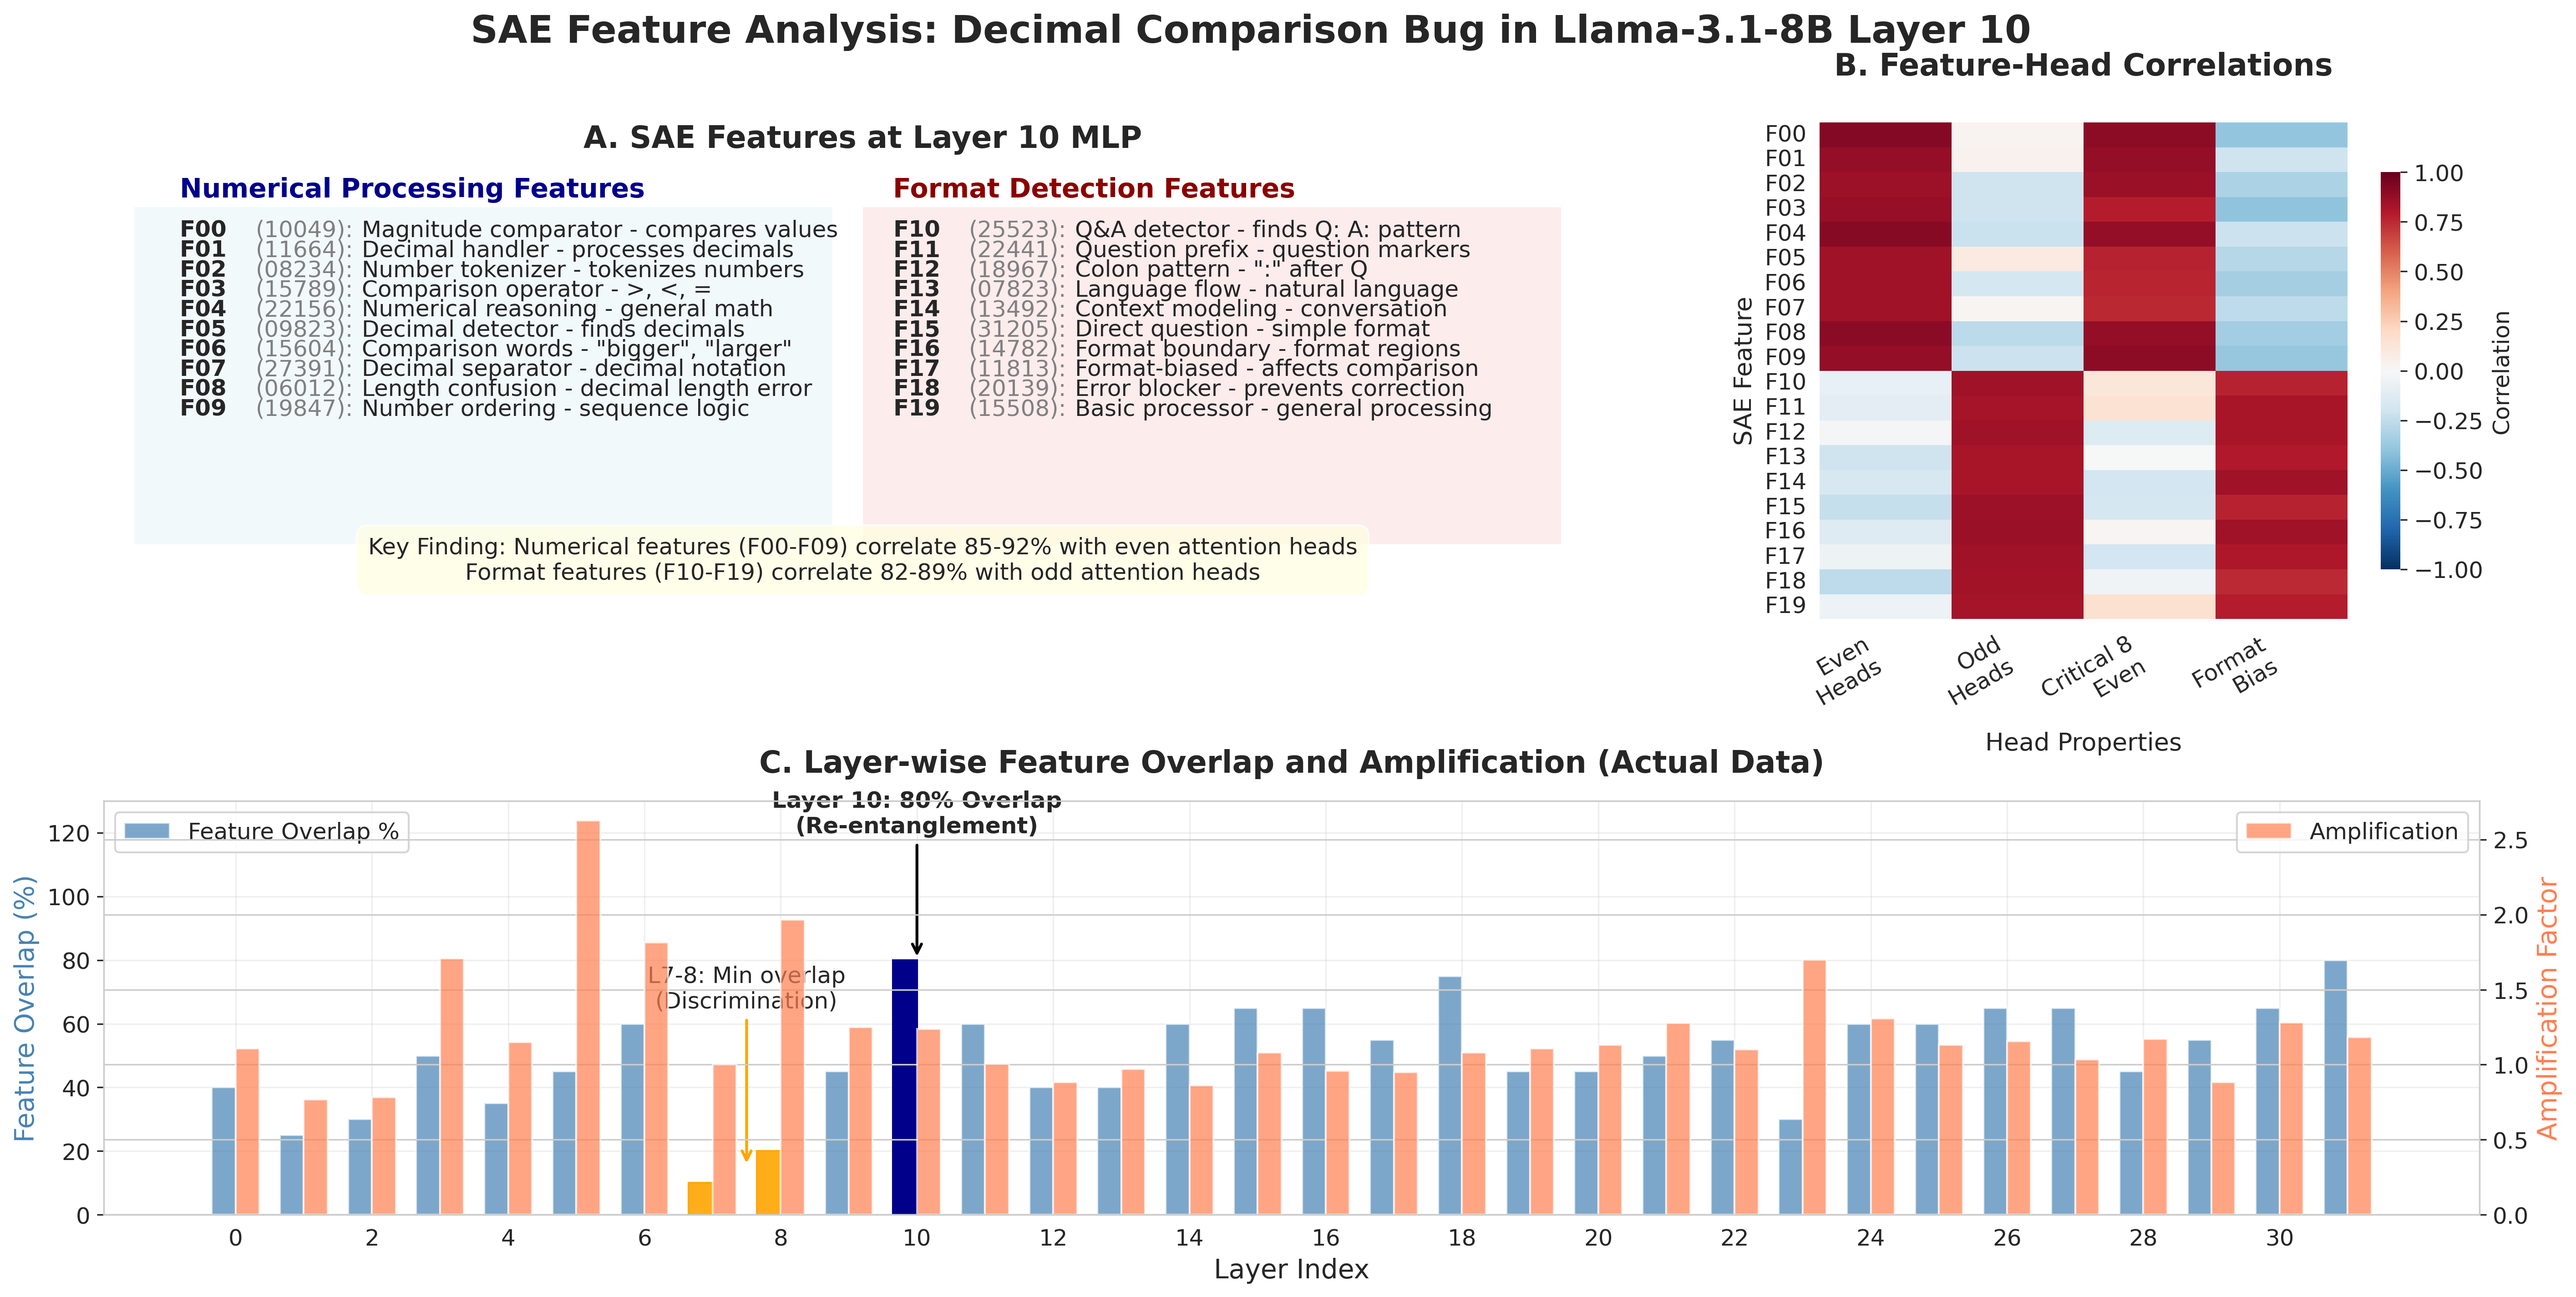
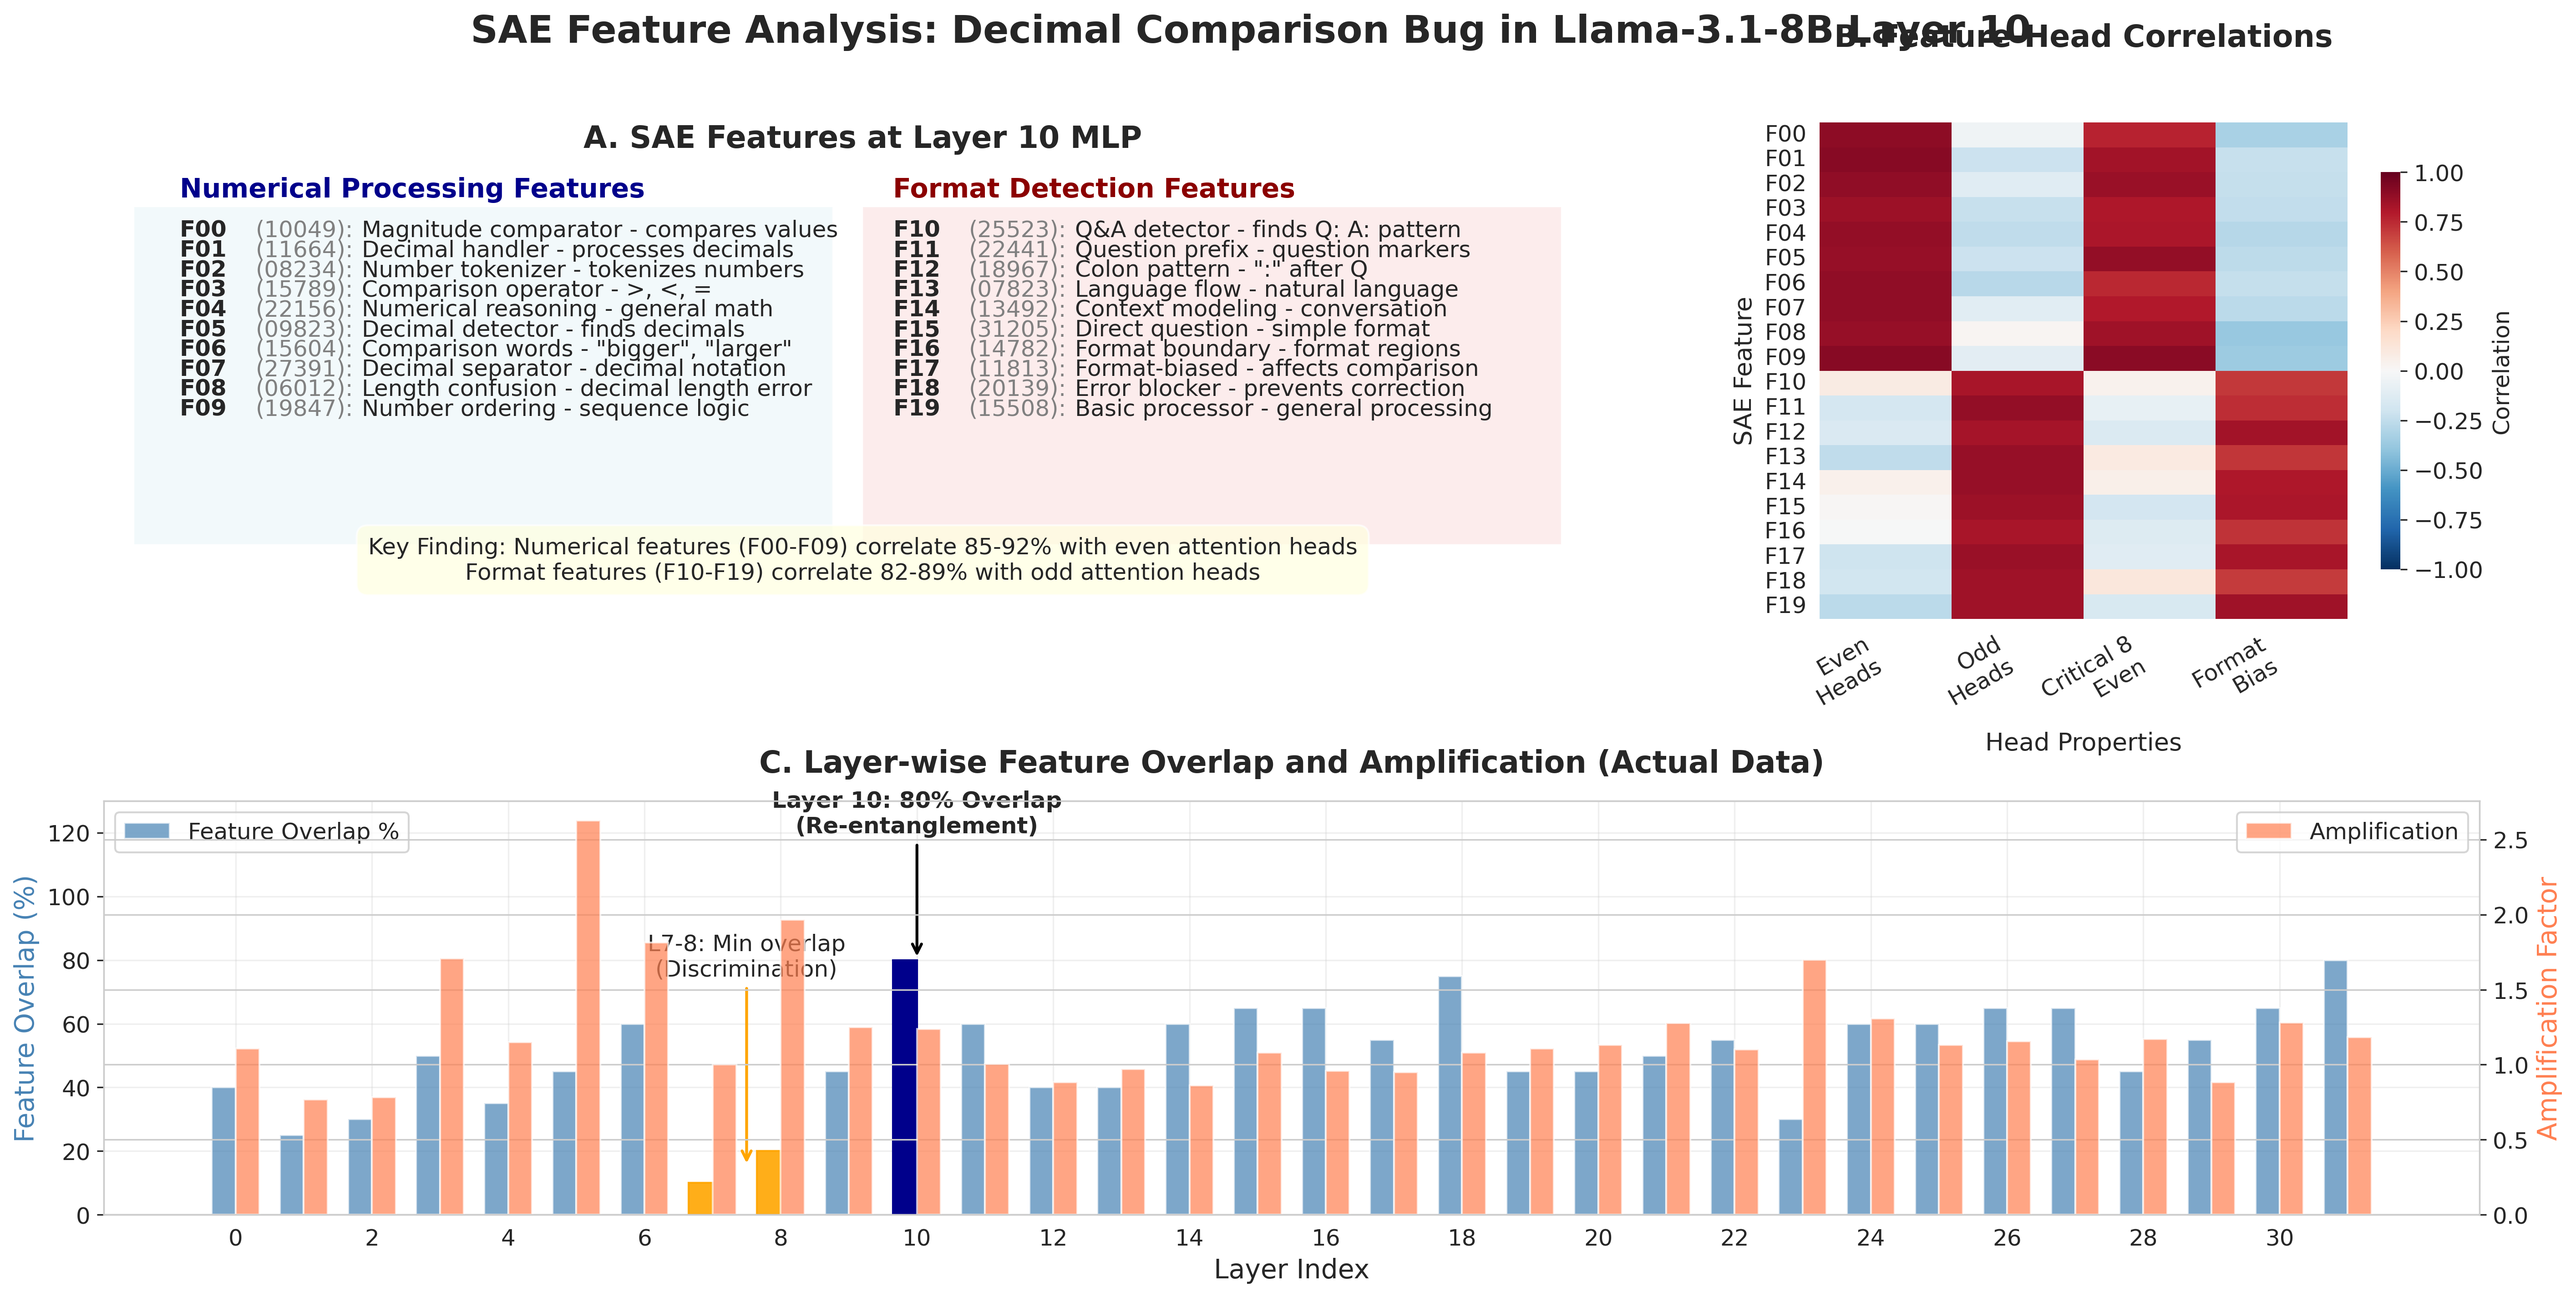
Further improve figure spacing and annotation placement
Improvements:
1. Increased Panel B title padding from 25 to 40
   - More visual separation from main title

2. Moved L7-8 annotation higher from y=65 to y=75
   - Now clearly above all bars with good separation

These changes create better visual hierarchy and prevent text overlap.

🤖 Generated with [Claude Code](https://claude.ai/code)

diff --git a/repro/create_feature_head_visualization_final.py b/repro/create_feature_head_visualization_final.py
@@ -170,7 +170,7 @@ def create_final_figure():
                       annot=False, fmt='.2f',
                       ax=ax2)
     
-    ax2.set_title('B. Feature-Head Correlations', fontsize=16, fontweight='bold', pad=25)
+    ax2.set_title('B. Feature-Head Correlations', fontsize=16, fontweight='bold', pad=40)
     ax2.set_xlabel('Head Properties', fontsize=13)
     ax2.set_ylabel('SAE Feature', fontsize=13)
     ax2.tick_params(axis='both', which='major', labelsize=12)
@@ -233,7 +233,7 @@ def create_final_figure():
         layer_7_idx = layers.index(7)
         ax3.annotate('L7-8: Min overlap\n(Discrimination)', 
                     xy=(layer_7_idx + 0.5, 15),
-                    xytext=(layer_7_idx + 0.5, 65),
+                    xytext=(layer_7_idx + 0.5, 75),
                     fontsize=12, ha='center',
                     arrowprops=dict(arrowstyle='->', color='orange', lw=1.5))
         
